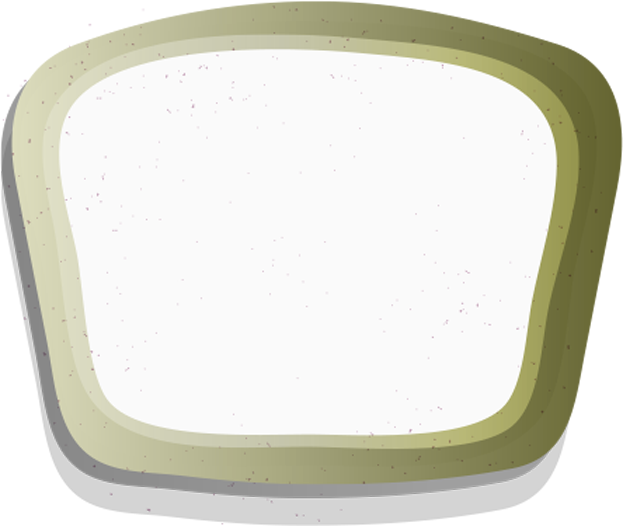
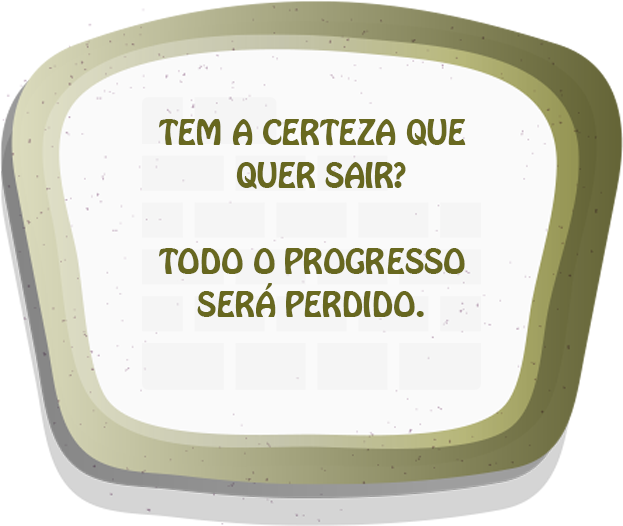
Bunito

Changed region(s): [[0.244, 0.4563, 0.7624, 0.6084], [0.244, 0.2129, 0.7624, 0.2738], [0.366, 0.3042, 0.6709, 0.365]]

diff --git a/js/Jogo.js b/js/Jogo.js
@@ -38,7 +38,8 @@ class Jogo extends Phaser.Scene {
         this.load.image('ponto', 'assets/ponto.png');
         this.load.image('titulo1', 'assets/titulo1.png');        
         this.load.image('ponto', 'assets/ponto.png');
-        this.load.image('info', 'assets/quadroinfo.png');
+        this.load.image('info', 'assets/quadropassar.png');
+        this.load.image('infoexit', 'assets/quadroinfo.png');
         this.load.image('btsim', 'assets/btsim.png');
         this.load.image('btnao', 'assets/btnao.png');
     }
@@ -52,6 +53,7 @@ class Jogo extends Phaser.Scene {
         this.titulo1 = this.add.sprite(0.5 * game.config.width, 0.15 *game.config.height, 'titulo1');
         this.titulo1.setScale(0.6);
         info = this.add.sprite(-10000,-100000, 'info');
+        info.setScale(0.75);
 
         var color =  0xffffff;
         var contador = 0;
@@ -87,7 +89,7 @@ class Jogo extends Phaser.Scene {
         });
 
         //Exit
-        this.infoexit = this.add.sprite(0.5 * game.config.width, 0.55 *game.config.height, "info");
+        this.infoexit = this.add.sprite(0.5 * game.config.width, 0.55 *game.config.height, "infoexit");
         this.infoexit.setScale(0.75);
         this.infoexit.visible = false;
         this.infoexit.name = 'infoexit';
